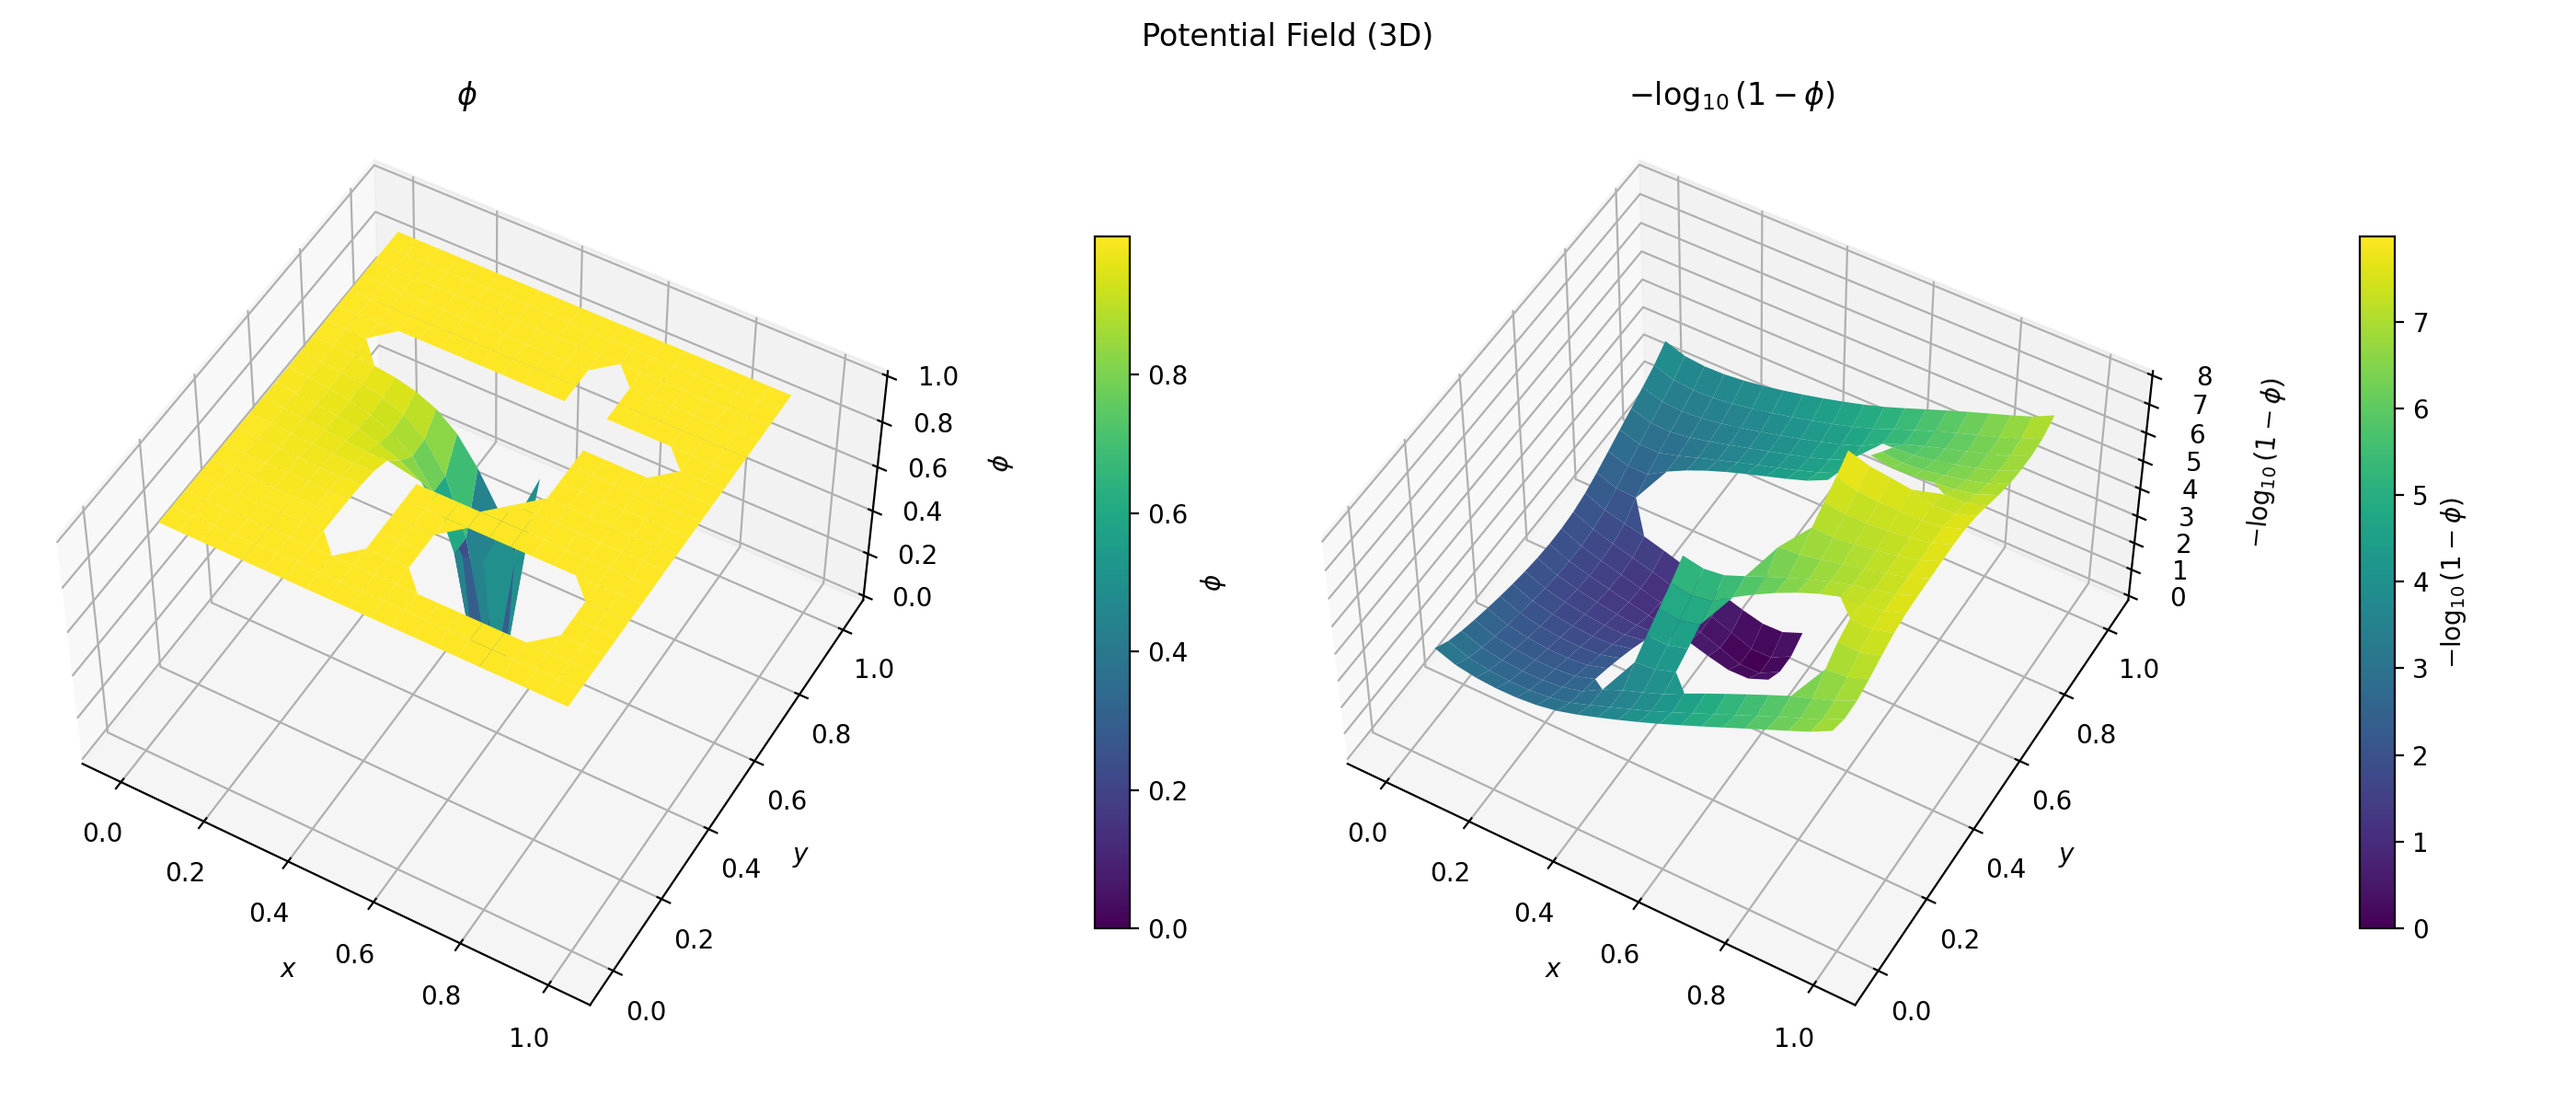
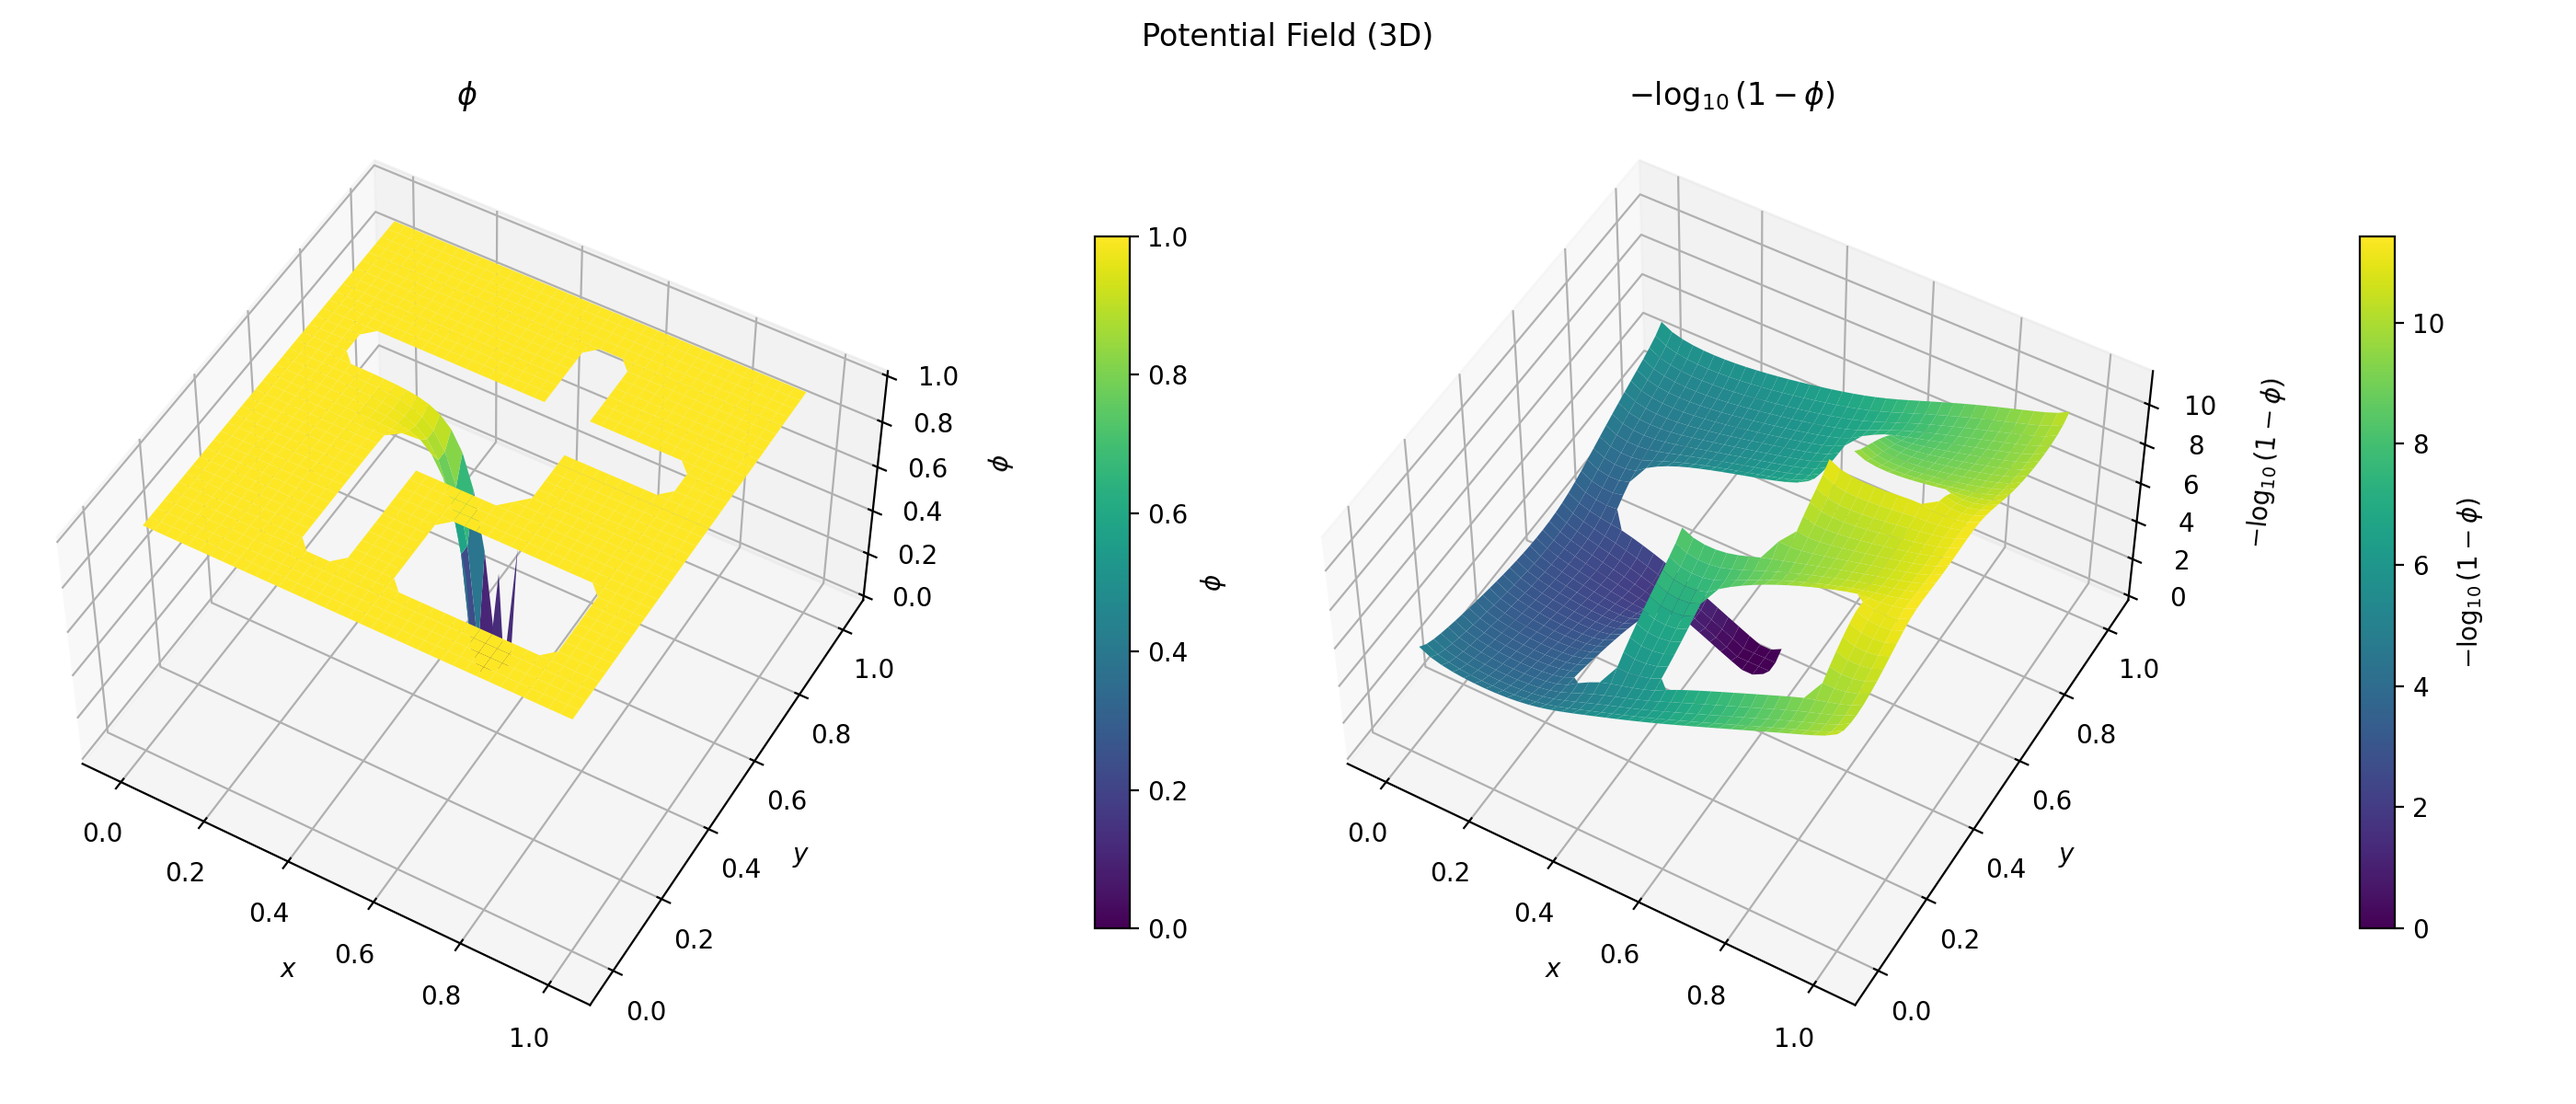
マップの複雑度を上げても解けた（複雑すぎると勾配消失した

diff --git a/数値解析学/後半/report/experiments/exp_sor_only_map_b.py b/数値解析学/後半/report/experiments/exp_sor_only_map_b.py
@@ -1,0 +1,128 @@
+from __future__ import annotations
+
+# ruff: noqa: E402
+from pathlib import Path
+import sys
+
+# ローカルimportを通すため、report直下を sys.path に追加する
+REPORT_ROOT = Path(__file__).resolve().parents[1]
+if str(REPORT_ROOT) not in sys.path:
+    sys.path.insert(0, str(REPORT_ROOT))
+
+from core.laplace_path_planning_solver import (
+    SolveMethod,
+    solve_laplace,
+    trace_path_from_start,
+)
+from experiments.utils import (
+    build_problem_with_grid_size,
+    make_output_dir,
+    measure_cpu_time,
+    write_timing_csv,
+)
+from viz.plot_laplace import (
+    plot_laplace,
+    plot_laplace_surface_3d_pair,
+    plot_velocity_quiver_pair,
+    plot_residual_history,
+)
+
+
+def _save_axis_figure(ax, path: Path) -> None:
+    fig = ax.get_figure()
+    assert fig is not None
+    fig.tight_layout()
+    fig.savefig(path, dpi=200)
+
+
+def _set_suptitle(fig, title: str) -> None:
+    fig.suptitle(title)
+
+
+def main() -> int:
+    # 入力レイアウトとソルバ設定
+    layout_path = (
+        Path(__file__).resolve().parents[1]
+        / "problem_gen"
+        / "maps"
+        / "layout_b.yaml"
+    )
+    output_dir = make_output_dir("exp_sor_only_map_b")
+    omega = 1.5
+    method = SolveMethod.SOR
+
+    # レイアウト読み込みと必須パラメータの検証
+    layout, problem, occ, xs, ys = build_problem_with_grid_size(layout_path, 60, 60)
+    if layout.world.start is None:
+        raise ValueError("start must be set in layout.yaml")
+    # ラプラス方程式を SOR で解く（CPU time）
+    result, t_solver = measure_cpu_time(
+        solve_laplace,
+        problem,
+        method=method,
+        omega=omega,
+    )
+    # 速度場に沿った経路生成（CPU time）
+    path_result, t_path = measure_cpu_time(
+        trace_path_from_start,
+        problem,
+        result,
+        start=layout.world.start,
+    )
+    t_solver_path = t_solver + t_path
+    path_xy = path_result.path_xy
+    # 可視化（ポテンシャル/速度場/3D/残差履歴）
+    ax_lin, ax_log = plot_laplace(
+        occ,
+        xs,
+        ys,
+        result.phi,
+        start=layout.world.start,
+        goal=layout.world.goal,
+        path_xy=path_xy,
+    )
+    fig_laplace = ax_lin.get_figure()
+    assert fig_laplace is not None
+    _set_suptitle(fig_laplace, "Potential Field")
+    _save_axis_figure(ax_lin, output_dir / "potential_field.png")
+
+    ax_vel_lin, ax_vel_log = plot_velocity_quiver_pair(occ, xs, ys, result.u, result.v)
+    fig_vel = ax_vel_lin.get_figure()
+    assert fig_vel is not None
+    _set_suptitle(fig_vel, "Gradient Descent Flow")
+    _save_axis_figure(ax_vel_lin, output_dir / "gradient_descent_flow.png")
+
+    ax_surf_lin, ax_surf_log = plot_laplace_surface_3d_pair(xs, ys, result.phi, occ=occ)
+    fig_surf = ax_surf_lin.get_figure()
+    assert fig_surf is not None
+    _set_suptitle(fig_surf, "Potential Field (3D)")
+    _save_axis_figure(ax_surf_lin, output_dir / "potential_field_3d.png")
+
+    fig_res, _ = plot_residual_history(
+        result.residual_history,
+        result.residual_norm_history,
+    )
+    fig_res.suptitle("Residual History")
+    fig_res.tight_layout()
+    fig_res.savefig(output_dir / "residual_history.png", dpi=200)
+    import matplotlib.pyplot as plt
+
+    # 計測結果の出力
+    print(f"CPU time (solver): {t_solver:.6f} s")
+    print(f"CPU time (path): {t_path:.6f} s")
+    print(f"CPU time (solver+path): {t_solver_path:.6f} s")
+    write_timing_csv(
+        output_dir,
+        [
+            ("solver", t_solver),
+            ("path", t_path),
+            ("solver+path", t_solver_path),
+        ],
+    )
+
+    plt.show()
+    return 0
+
+
+if __name__ == "__main__":
+    raise SystemExit(main())

diff --git a/数値解析学/後半/report/problem_gen/drawio_to_layout.py b/数値解析学/後半/report/problem_gen/drawio_to_layout.py
@@ -153,8 +153,8 @@ def _cell_center_world(cell: ET.Element, world: WorldInfo, *, name: str) -> tupl
     return _px_to_world(cx, cy, world)
 
 
-def _round3(value: float) -> float:
-    return round(value, 3)
+def _round2(value: float) -> float:
+    return round(value, 2)
 
 
 def parse_start_goal(
@@ -311,11 +311,11 @@ def main() -> int:
 
     layout: dict[str, object] = {
         "world": {
-            "xlim": [0.0, _round3(info.size.width)],
-            "ylim": [0.0, _round3(info.size.height)],
+            "xlim": [0.0, _round2(info.size.width)],
+            "ylim": [0.0, _round2(info.size.height)],
         },
-        "start": [_round3(start[0]), _round3(start[1])],
-        "goal": [_round3(goal[0]), _round3(goal[1])],
+        "start": [_round2(start[0]), _round2(start[1])],
+        "goal": [_round2(goal[0]), _round2(goal[1])],
         "obstacles": [],
     }
     obstacles: list[dict[str, object]] = []
@@ -324,10 +324,10 @@ def main() -> int:
             {
                 "name": f"wall{idx}",
                 "type": "wall",
-                "x0": _round3(wall.x0),
-                "y0": _round3(wall.y0),
-                "x1": _round3(wall.x1),
-                "y1": _round3(wall.y1),
+                "x0": _round2(wall.x0),
+                "y0": _round2(wall.y0),
+                "x1": _round2(wall.x1),
+                "y1": _round2(wall.y1),
             }
         )
     for idx, box in enumerate(boxes, start=1):
@@ -335,10 +335,10 @@ def main() -> int:
             {
                 "name": f"box{idx}",
                 "type": "box",
-                "xmin": _round3(box.xmin),
-                "xmax": _round3(box.xmax),
-                "ymin": _round3(box.ymin),
-                "ymax": _round3(box.ymax),
+                "xmin": _round2(box.xmin),
+                "xmax": _round2(box.xmax),
+                "ymin": _round2(box.ymin),
+                "ymax": _round2(box.ymax),
             }
         )
     layout["obstacles"] = obstacles

diff --git a/数値解析学/後半/report/problem_gen/occupancy_grid.py b/数値解析学/後半/report/problem_gen/occupancy_grid.py
@@ -410,13 +410,18 @@ def rasterize_occupancy_grid(
     # cell centers (including boundary cells)
     xs = np.linspace(x0, x1, w.nx, dtype=np.float64)
     ys = np.linspace(y0, y1, w.ny, dtype=np.float64)
-    xx, yy = np.meshgrid(xs, ys, indexing="ij")  # (nx, ny)
+    dx = xs[1] - xs[0] if xs.size > 1 else 0.0
+    dy = ys[1] - ys[0] if ys.size > 1 else 0.0
+    x_edges = np.linspace(x0 - dx / 2, x1 + dx / 2, w.nx + 1, dtype=np.float64)
+    y_edges = np.linspace(y0 - dy / 2, y1 + dy / 2, w.ny + 1, dtype=np.float64)
 
     occ = np.zeros((w.nx, w.ny), dtype=np.bool_)
     for obs in layout.obstacles:
         box = _wall_to_box(obs) if isinstance(obs, Wall) else obs
-        mask = (box.xmin <= xx) & (xx <= box.xmax) & (box.ymin <= yy) & (yy <= box.ymax)
-        occ |= mask
+        x_mask = (x_edges[:-1] < box.xmax) & (x_edges[1:] > box.xmin)
+        y_mask = (y_edges[:-1] < box.ymax) & (y_edges[1:] > box.ymin)
+        if np.any(x_mask) and np.any(y_mask):
+            occ[np.ix_(x_mask, y_mask)] = True
     # Treat outer frame as occupied wall.
     occ[0, :] = True
     occ[-1, :] = True

diff --git a/数値解析学/後半/report/core/laplace_path_planning_solver.py b/数値解析学/後半/report/core/laplace_path_planning_solver.py
@@ -3,6 +3,7 @@ from __future__ import annotations
 from dataclasses import dataclass
 from enum import Enum
 from typing import Tuple
+import warnings
 
 import numpy as np
 import numpy.typing as npt
@@ -282,6 +283,10 @@ def trace_path_from_start(
         norm = (ux * ux + vy * vy) ** 0.5
         if norm == 0.0:
             # 勾配が存在しないため終了
+            warnings.warn(
+                "勾配がゼロのため経路生成を終了します",
+                RuntimeWarning,
+            )
             break
         x += step * ux / norm
         y += step * vy / norm

diff --git a/数値解析学/後半/report/README.md b/数値解析学/後半/report/README.md
@@ -10,14 +10,19 @@ problem_gen/
   occupancy_grid.py                  layout + config の読込と格子化
   maps/layout_a.drawio               drawio レイアウト
   maps/layout_a.yaml                 レイアウト定義（world/障害物/start/goal）
+  maps/layout_b.drawio               drawio レイアウト
+  maps/layout_b.yaml                 レイアウト定義（world/障害物/start/goal）
   numerical_config.yaml              数値計算設定（nx, ny など）
 viz/
   plot_laplace.py                    可視化ユーティリティ
 experiments/
   exp_sor_only.py                    SOR の数値実験スクリプト
+  exp_sor_only_map_b.py              layout_b 用の SOR 数値実験
 
 ## 使い方
 
 - 実験の実行: python 数値解析学/後半/report/experiments/exp_sor_only.py
 - drawio からレイアウト生成:
   python 数値解析学/後半/report/problem_gen/drawio_to_layout.py
+- layout_b.yaml の再生成:
+  /home/njz/study_cse/.venv/bin/python /home/njz/study_cse/数値解析学/後半/report/problem_gen/drawio_to_layout.py /home/njz/study_cse/数値解析学/後半/report/problem_gen/maps/layout_b.drawio --output /home/njz/study_cse/数値解析学/後半/report/problem_gen/maps/layout_b.yaml
